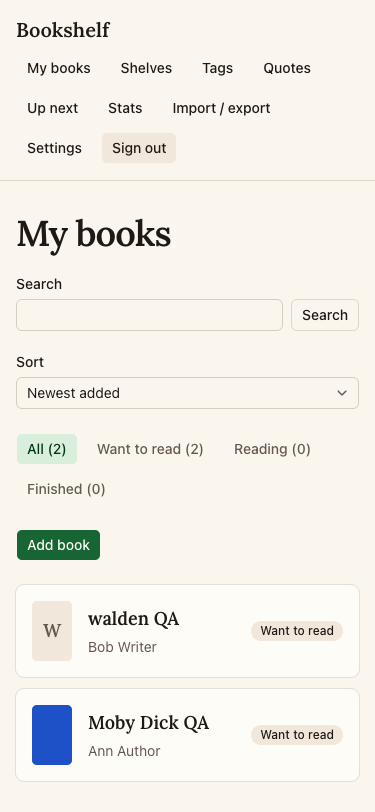
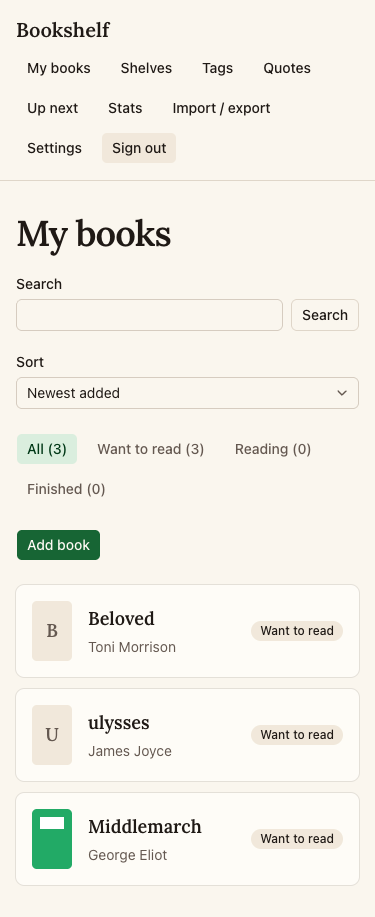
F082: log merge with main, verifier PASS

diff --git a/harness/evidence/F082.md b/harness/evidence/F082.md
@@ -1,25 +1,20 @@
 <!-- written by harness/hooks/verifier-evidence.py; do not edit -->
-- Verified at: 2026-11-14T15:34:39 on 5ac3f82 plus working tree
-- Verifier run: a6aef2bbb3daec077
+- Verified at: 2026-11-14T15:46:03 on 251122a plus working tree
+- Verifier run: ae3c40afb503821b1
 
 VERDICT: PASS
 FEATURE: F082
 CRITERIA:
-- CRITERION 1: PASS — On /books, the book I gave a cover ("Moby Dick QA") shows a 40x60 image with alt "Cover of Moby Dick QA", and the book with no cover ("walden QA") shows a 40x60 tile with the letter "W" (capitalised from a lowercase title) and no img.
-- CRITERION 2: PASS — Every cover src is a `/storage/v1/object/sign/covers/...?token=` URL with a 600 s TTL (exp minus iat = 600). The page HTML never contains `/object/public/`, and the public URL returns 400. The thumbnail and its row keep the same size (40x60 inside a 692x92 row) whether the image is blocked or loaded, and CLS measured 0.
-
+- CRITERION 1: PASS — On a new account with 3 books, /books showed Middlemarch's uploaded cover as a 40x60 thumbnail. "Beloved" and "  ulysses" (leading spaces, lowercase) showed muted 40x60 placeholders with the letters "B" and "U".
+- CRITERION 2: PASS — Each thumbnail src is a `/storage/v1/object/sign/covers/...?token=` URL whose token lasts 600 s (exp-iat=600), and the page HTML has no `/object/public/`. With the image held back 4 s, the img box was already 40x60, the row positions and heights were the same before and after load, and the layout-shift CLS was 0.
 EVIDENCE:
-- Setup: init.sh printed "Serving on http://localhost:43201", and every test ran there. I signed up a fresh account (qa-f082-<ts>@example.com), added "Moby Dick QA" (Ann Author) and "walden QA" (Bob Writer), and uploaded .playwright-mcp/cover-f082.png on the Moby Dick book page with "Add cover". The image "Cover of Moby Dick QA" then appeared.
-- Step 1: The list shows a cover img (width=40 height=60 attributes, 40x60 box, naturalWidth 200, complete) for Moby Dick, and a "W" placeholder in a 40x60 box for walden. (/Users/huynguyen/Desktop/harness-web-trial-loop/F082/harness/evidence/F082/step-01.png, full page)
-- Step 2: The decoded src is `http://127.0.0.1:56321/storage/v1/object/sign/covers/<user-id>/<book-id>-<uuid>.png?token=...` and the token payload scope is "download".
-  - The signed URL returns 200 image/png.
-  - The same path under `/object/public/` returns 400, and the signed path without a token also returns 400.
-  - With `**/object/sign/covers/**` aborted, the row box was {y:609, h:92} and the img box was 40x60. After unblocking and reloading it was the same {y:609, h:92} with a 40x60 img. The layout-shift PerformanceObserver reported 0.
-  - The book page's cover is also a signed URL (128x192). (/Users/huynguyen/Desktop/harness-web-trial-loop/F082/harness/evidence/F082/step-02.png, book page)
-- Mobile 375x812: Both rows are visible with the W placeholder and the cover thumbnail, and nothing overflows. (/Users/huynguyen/Desktop/harness-web-trial-loop/F082/harness/evidence/F082/step-02-mobile.png)
-- Console: The only error was net::ERR_FAILED for the cover URL, and that came from my own deliberate route abort. No other errors or warnings appeared.
-- Edge cases: The lowercase title gets an uppercase placeholder letter. A reload while the image is blocked keeps the layout stable. A refresh with the image loaded keeps the same geometry.
-- Tests: `npx playwright test e2e/F082-cover-display.spec.ts` against port 43201 ran 2 tests and both passed (15.4s). The regenerated baseline /Users/huynguyen/Desktop/harness-web-trial-loop/F082/e2e/__screenshots__/F082-cover-display.spec.ts/F082-cover-display.png now masks only the h1 and the title and author text. The thumbnail, the "Z" placeholder and the status badges stay visible, so the screenshot compare now covers the cover display.
-
+- Setup: the browser was still signed in from an earlier session, so I signed out and signed up a fresh account at http://localhost:43206 (started with ./init.sh). I added Middlemarch, "  ulysses" and Beloved, then uploaded a 200x300 PNG to Middlemarch through the F081 "Add cover" form on its book page.
+- Step 1: The list shows B and U placeholders and the Middlemarch cover thumbnail. Each box measures 40x60 and each row is 92px tall. (/Users/huynguyen/Desktop/harness-web-trial-loop/F082/harness/evidence/F082/step-01.png, full page)
+- Step 2 (HTTP, from the page): GET on the signed src returned 200 image/png. The same path with /object/public/ returned 400, and the path without a token also returned 400. Server-rendered /books HTML: contains /object/sign/covers/ is true, contains /object/public/ is false.
+- Step 2 (layout shift): I delayed the cover requests by 4 s and loaded with domcontentloaded. Before load the img had complete=false, naturalWidth=0 and box [40,60], with rows at [[505,92],[609,92],[713,92]]. After load it had naturalWidth=200, the same box and the same rows. The layout-shift PerformanceObserver recorded no shifts (CLS 0). (/Users/huynguyen/Desktop/harness-web-trial-loop/F082/harness/evidence/F082/step-02.png)
+- Mobile at 375x812: the thumbnails and placeholders sit left of title/author and the status badges fit. (/Users/huynguyen/Desktop/harness-web-trial-loop/F082/harness/evidence/F082/step-02-mobile.png)
+- Book page (from the title, not an acceptance item): Beloved shows a 128x192 "B" placeholder. Middlemarch shows a 128x192 image with a signed URL.
+- Edge cases: after Back from a book page the list still showed B, U and the image. The search ?q=middle still showed the Middlemarch thumbnail.
+- Errors: the browser console had 0 errors and 0 warnings for the whole flow. The dev server log (init.sh output) had no errors.
+- Tests: `scripts/e2e.sh e2e/F082-cover-display.spec.ts e2e/F081-cover-*.spec.ts` passed 9 of 9. That includes both F082 tests (thumbnail plus placeholder with visual baseline; signed URL, fixed size, no row shift) and all F081 cover upload and policy tests after the merge.
 PROBLEMS:
-- (none)

diff --git a/harness/log/F082.md b/harness/log/F082.md
@@ -1,3 +1,8 @@
+## 2026-11-14 17:30 · passing (merge fix)
+- Did: merged origin/main (F081 landed). Kept F082's signCovers in lib/covers.ts and BookCover in components/cover-form.tsx on top of main's code; took main's F081 status/log/evidence and verifier MEMORY.md.
+- Verified by: check.sh green; F081 cover specs 7/7 on the merged tree; verifier PASS (40x60 thumbnail and placeholder, signed URL 600s, public URL refused, CLS 0).
+- Next session should know: nothing pending.
+
 ## 2026-11-14 16:30 · passing (review fix)
 - Did: reviewer [bug] "baseline mask hides every list row": fixed as the human/dispatcher allowed. Narrowed the locked spec's toHaveScreenshot mask in e2e/F082-cover-display.spec.ts from whole list rows + h1 to the h1 plus the per-run title and author text; no assertion, setup or locator changed. Regenerated F082-cover-display.png: the Q thumbnail and the Z placeholder are now unmasked in the baseline.
 - Verified by: check.sh green (9/9 e2e, new baseline matched on rerun); verifier PASS (40x60 thumbnail and placeholder, signed URL 600s, public URL refused, CLS 0).
